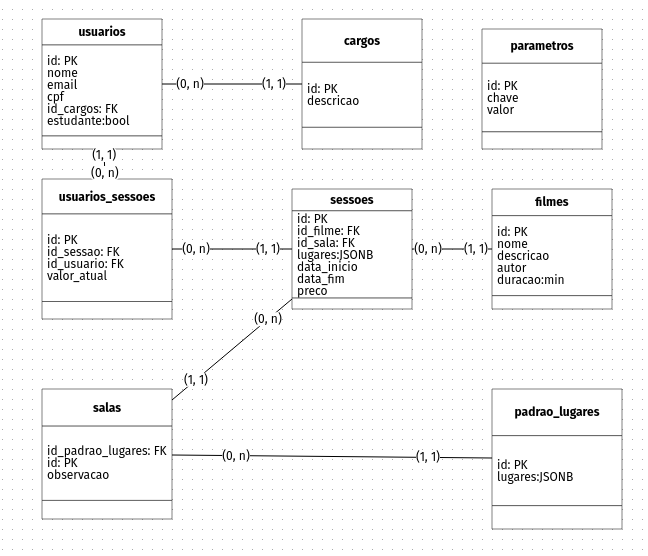
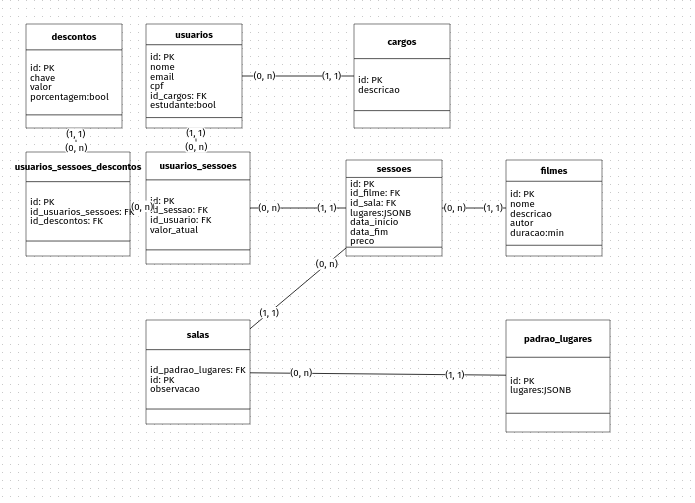
ref: Mudando modelagem do banco

diff --git a/src/models/Desconto.js b/src/models/Desconto.js
@@ -1,8 +1,8 @@
 import { DataTypes } from 'sequelize';
 import sequelize from '../config';
 
-const Parametro = sequelize.define(
-  'parametros',
+const Desconto = sequelize.define(
+  'descontos',
   {
     id: {
       type: DataTypes.INTEGER,
@@ -17,6 +17,11 @@ const Parametro = sequelize.define(
       type: DataTypes.STRING(150),
       allowNull: false,
     },
+    porcentagem: {
+      type: DataTypes.BOOLEAN,
+      allowNull: false,
+      defaultValue: true,
+    },
   },
   {
     freezeTableName: true,
@@ -26,4 +31,4 @@ const Parametro = sequelize.define(
   },
 );
 
-export default Parametro;
+export default Desconto;

diff --git a/src/models/index.js b/src/models/index.js
@@ -2,14 +2,14 @@
 import Cargo from './Cargo.js';
 import Filme from './Filme.js';
 import PadraoLugares from './PadraoLugares.js';
-import Parametro from './Parametro.js';
 import Sala from './Sala.js';
 import Sessao from './Sessao.js';
 import Usuario from './Usuario.js';
+import Desconto from './Desconto.js';
 
 (async () => {
   // await Teste.sync({ force: true });
-  await Parametro.sync({ force: true });
+  await Desconto.sync({ force: true });
   await Filme.sync({ force: true });
   await Cargo.sync({ force: true });
   await PadraoLugares.sync({ force: true });
